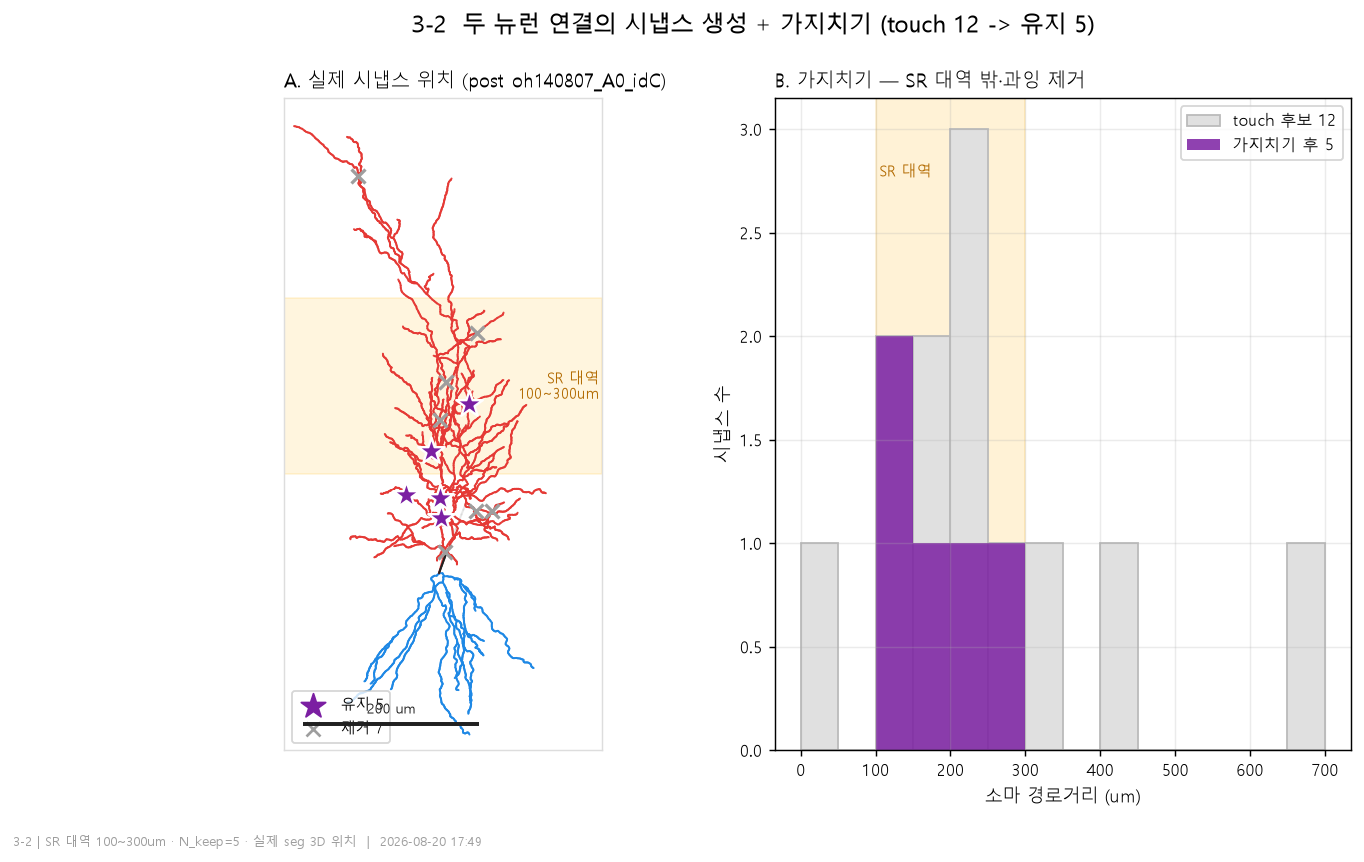
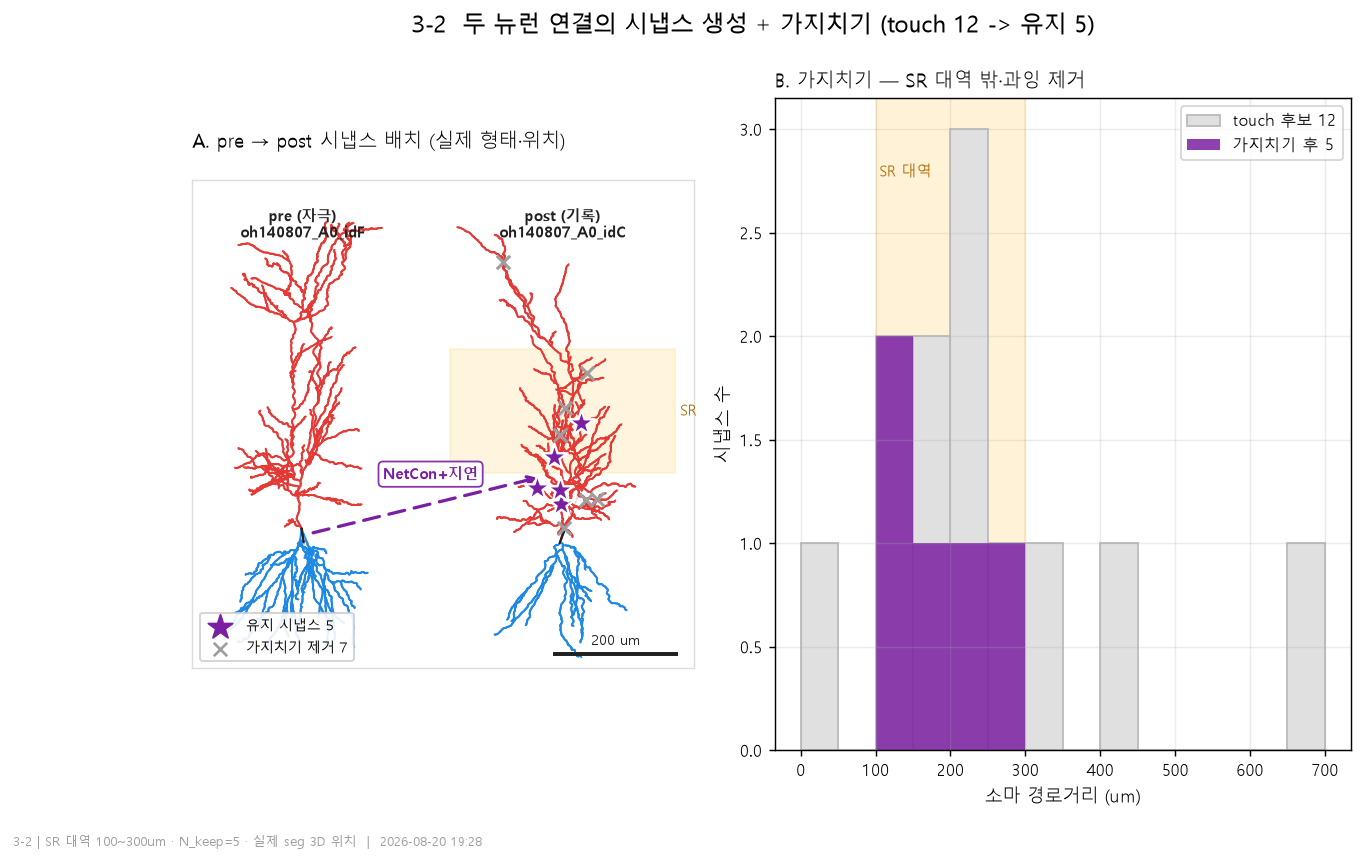
04 3-2: 시냅스 배치 그림에 pre 세포 추가 (pre->post 연결 도해)
3-2 그림에 pre(자극) 세포를 왼쪽에 함께 그리고, pre 소마 -> 유지 시냅스로
NetCon+지연 연결 화살표를 표시. 이제 두 뉴런과 시냅스 연결이 한 그림에 보인다.

Changed region(s): [[0.154, 0.1508, 0.5235, 0.8747], [0.2155, 0.0905, 0.4927, 0.1206]]

diff --git a/04_Synaptic_plasticity_Simulation/03_synapse/2_placement/3-2_placement.py b/04_Synaptic_plasticity_Simulation/03_synapse/2_placement/3-2_placement.py
@@ -90,10 +90,12 @@ def main():
     plots.setup()
     with open(os.path.join(ROOT, "config", "cells.yaml"), "r", encoding="utf-8") as f:
         cfg = yaml.safe_load(f)["pair"]
+    pre, _ = cells.load_cell(os.path.join(REPO, "Models", cfg["pre_bundle"]), "pre")
     post, _ = cells.load_cell(os.path.join(REPO, "Models", cfg["post_bundle"]), "post")
 
     print("=== 3-2 시냅스 생성 + 가지치기 ===")
     m, c, R = post_points_and_transform(post)
+    m_pre, _, _ = post_points_and_transform(pre)   # 같은 방식으로 pre 점구름 정렬
     cands = candidates(post)
     kept, rm_band, rm_excess = prune(cands)
     print(f"  touch 후보 {len(cands)} -> 유지 {len(kept)} (SR밖 {len(rm_band)} · 과잉 {len(rm_excess)} 제거)")
@@ -114,27 +116,59 @@ def main():
     fig, (axA, axB) = plt.subplots(1, 2, figsize=(11.5, 6.6),
                                    gridspec_kw={"width_ratios": [1, 1.15]})
 
-    # A: 실제 형태 위 시냅스 위치
-    mo.render(axA, m, types=(mo.SOMA, mo.BASAL, mo.APICAL, mo.AXON), autoscale=False)
+    # A: pre + post 를 함께 · post 형태 위 시냅스 위치
     xyd = m["xyz"][np.isin(m["type"], (mo.SOMA, mo.BASAL, mo.APICAL))][:, :2]
     hx = np.percentile(np.abs(xyd[:, 0]), 99.8) * 1.2
-    axA.set_xlim(-hx, hx)
-    axA.set_ylim(np.percentile(xyd[:, 1], 0.3) - 30, np.percentile(xyd[:, 1], 99.8) + 40)
+    # pre 를 왼쪽으로 offset (도해: pre 자극세포 → post 시냅스). D8: 상대 위치는 결과 무관.
+    pre_xyd = m_pre["xyz"][np.isin(m_pre["type"], (mo.SOMA, mo.BASAL, mo.APICAL))][:, :2]
+    pre_hx = np.percentile(np.abs(pre_xyd[:, 0]), 99.8) * 1.2
+    offset = hx + pre_hx + 90
+    m_pre_shift = dict(m_pre); m_pre_shift["xyz"] = m_pre["xyz"].copy()
+    m_pre_shift["xyz"][:, 0] -= offset
+
+    mo.render(axA, m_pre_shift, types=(mo.SOMA, mo.BASAL, mo.APICAL, mo.AXON), autoscale=False)
+    mo.render(axA, m, types=(mo.SOMA, mo.BASAL, mo.APICAL, mo.AXON), autoscale=False)
+
+    ylo = min(np.percentile(xyd[:, 1], 0.3), np.percentile(pre_xyd[:, 1], 0.3)) - 30
+    yhi = max(np.percentile(xyd[:, 1], 99.8), np.percentile(pre_xyd[:, 1], 99.8)) + 70
+    axA.set_xlim(-offset - pre_hx - 30, hx + 30)
+    axA.set_ylim(ylo, yhi)
     axA.set_aspect("equal", adjustable="box"); axA.set_xticks([]); axA.set_yticks([]); axA.grid(False)
     for s in axA.spines.values():
         s.set_color("#dddddd")
-    axA.axhspan(SR_MIN, SR_MAX, color="#ffb300", alpha=0.13, zorder=0)
-    axA.text(hx*0.98, (SR_MIN+SR_MAX)/2, "SR 대역\n100~300um", fontsize=8.5,
-             color="#b26a00", va="center", ha="right")
-    if len(bp): axA.scatter(bp[:, 0], bp[:, 1], s=60, marker="x", color="#9e9e9e", lw=1.8, zorder=5)
-    if len(ep): axA.scatter(ep[:, 0], ep[:, 1], s=60, marker="x", color="#9e9e9e", lw=1.8, zorder=5)
-    if len(kp): axA.scatter(kp[:, 0], kp[:, 1], s=240, marker="*", color="#7b1fa2",
+    # SR 대역은 post 쪽만
+    axA.fill_between([-hx, hx], SR_MIN, SR_MAX, color="#ffb300", alpha=0.13, zorder=0)
+    axA.text(hx, (SR_MIN+SR_MAX)/2, " SR", fontsize=8.5, color="#b26a00", va="center", ha="left")
+
+    if len(bp): axA.scatter(bp[:, 0], bp[:, 1], s=55, marker="x", color="#9e9e9e", lw=1.7, zorder=5)
+    if len(ep): axA.scatter(ep[:, 0], ep[:, 1], s=55, marker="x", color="#9e9e9e", lw=1.7, zorder=5)
+    if len(kp): axA.scatter(kp[:, 0], kp[:, 1], s=230, marker="*", color="#7b1fa2",
                             edgecolor="white", lw=1.3, zorder=6)
-    axA.set_title(f"A. 실제 시냅스 위치 (post {cfg['post_tag']})", fontsize=10.5, loc="left")
-    axA.scatter([], [], s=200, marker="*", color="#7b1fa2", label=f"유지 {len(kept)}")
-    axA.scatter([], [], s=60, marker="x", color="#9e9e9e", label=f"제거 {len(rm_band)+len(rm_excess)}")
-    axA.legend(loc="lower left", fontsize=8.5)
-    mo.scalebar(axA, 200, "200 um")
+
+    # pre 소마 → 유지 시냅스 연결(도해)
+    pre_soma = m_pre_shift["xyz"][m_pre_shift["type"] == mo.SOMA].mean(axis=0)
+    if len(kp):
+        tgt = kp.mean(axis=0)
+        axA.annotate("", xy=(tgt[0], tgt[1]), xytext=(pre_soma[0], pre_soma[1]),
+                     arrowprops=dict(arrowstyle="-|>", color="#7b1fa2", lw=1.8,
+                                     linestyle=(0, (5, 3)), shrinkA=6, shrinkB=12), zorder=4)
+        axA.text((pre_soma[0]+tgt[0])/2, (pre_soma[1]+tgt[1])/2 + 35,
+                 "NetCon+지연", fontsize=8.5, color="#7b1fa2", ha="center", va="bottom",
+                 fontweight="bold", bbox=dict(fc="white", ec="#7b1fa2", alpha=0.9,
+                                              boxstyle="round,pad=0.3"))
+
+    # 세포 라벨 (제목과 겹치지 않게 살짝 아래)
+    post_soma = m["xyz"][m["type"] == mo.SOMA].mean(axis=0)
+    axA.text(pre_soma[0], yhi - 45, f"pre (자극)\n{cfg['pre_tag']}", fontsize=8.5, ha="center",
+             va="top", color="#212121", fontweight="bold")
+    axA.text(post_soma[0], yhi - 45, f"post (기록)\n{cfg['post_tag']}", fontsize=8.5, ha="center",
+             va="top", color="#212121", fontweight="bold")
+
+    axA.set_title("A. pre → post 시냅스 배치 (실제 형태·위치)", fontsize=10.5, loc="left", pad=18)
+    axA.scatter([], [], s=200, marker="*", color="#7b1fa2", label=f"유지 시냅스 {len(kept)}")
+    axA.scatter([], [], s=55, marker="x", color="#9e9e9e", label=f"가지치기 제거 {len(rm_band)+len(rm_excess)}")
+    axA.legend(loc="lower left", fontsize=8, framealpha=0.9)
+    mo.scalebar(axA, 200, "200 um", loc=(0.72, 0.03))
 
     # B: 경로거리 분포 (후보 vs 유지)
     all_d = [d for _, d in cands]
